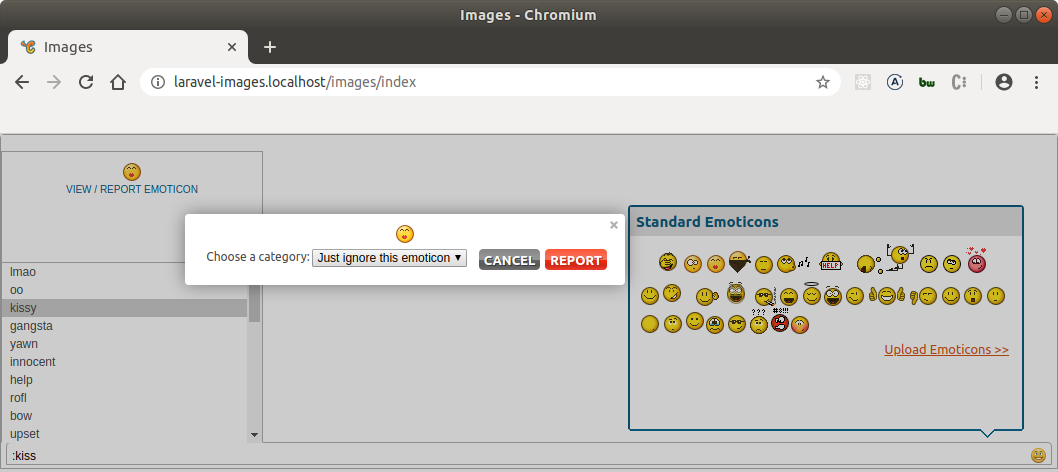
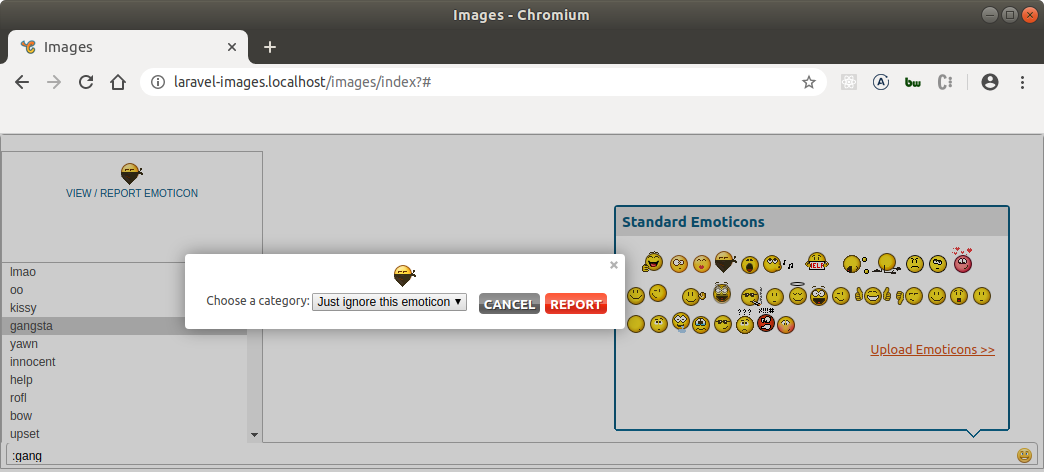
emoticon_autocomplete

diff --git a/storage/app/public/js/emoticon_autocomplete.js b/storage/app/public/js/emoticon_autocomplete.js
@@ -1,9 +1,11 @@
 $('#emoticon_autocomplete').hide();
 $("#chat_input").on('keydown', function (e) {
-    var c = String.fromCharCode(e.which) 
+    var c = String.fromCharCode(e.which);
+    var text = $(this).val();
     // console.log(c);
+    // console.log(text);
     // console.log($('#emoticon_autocomplete').css('display'));
-    if (c === 'º' || $('#emoticon_autocomplete').css('display') === 'show') {
+    if (c === 'º' || text.indexOf(':') >= 0 || $('#emoticon_autocomplete').css('display') === 'show') {
         $('#emoticon_autocomplete').show();
     } else {
         $('#emoticon_autocomplete').hide();

diff --git a/storage/app/public/js/index.facebox.js b/storage/app/public/js/index.facebox.js
@@ -29,7 +29,6 @@ $(document).ready(function () {
         } else {
             abuse_link.text('REPORT EMOTICON');
         }
-
     });
     $('body').on('click', '.report_abuse_link', function (e) {
         e.preventDefault();
@@ -37,6 +36,10 @@ $(document).ready(function () {
             $('.button_abuse_report a').last().click();
         } else {
             $(this).hide();
+            $('#facebox').css({
+                top: 120,
+                left: 185 
+            });            
             $('#facebox .emoticon_abuse_categories').show();
         }
     });
